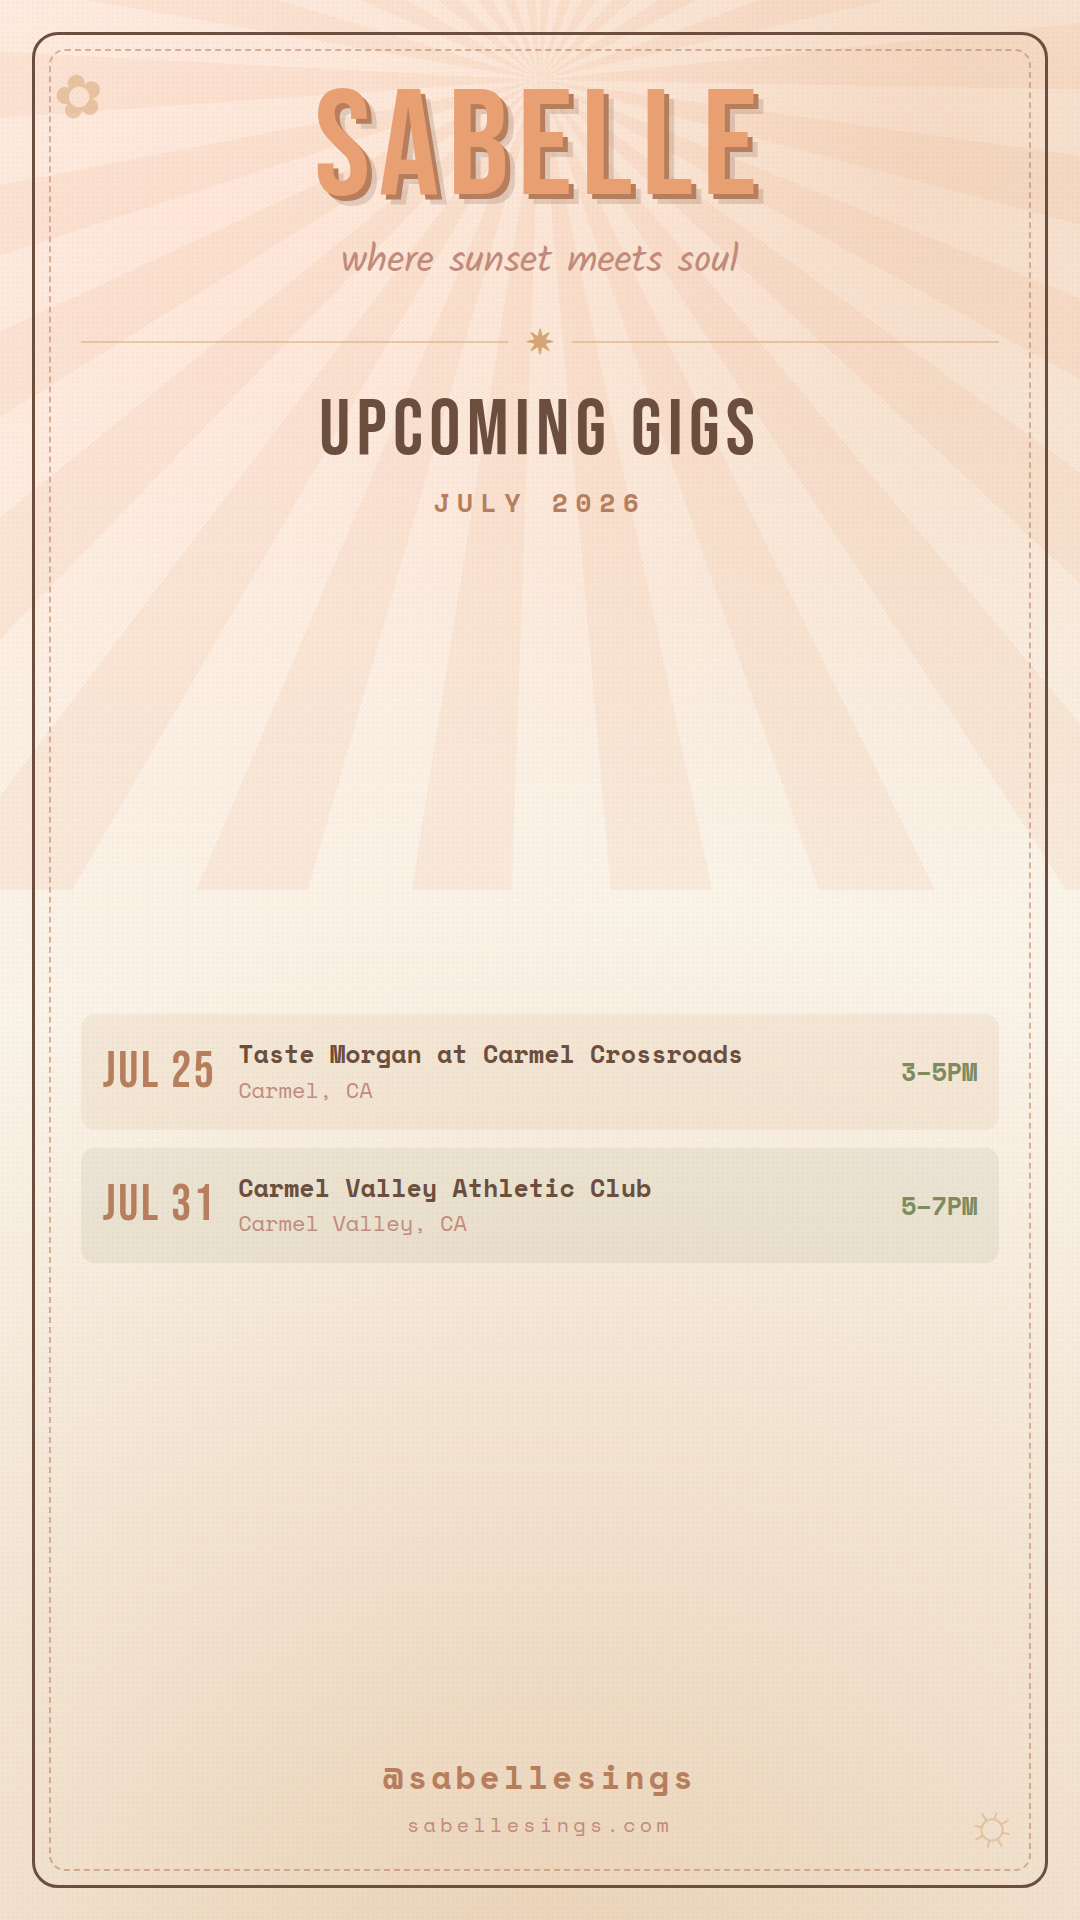
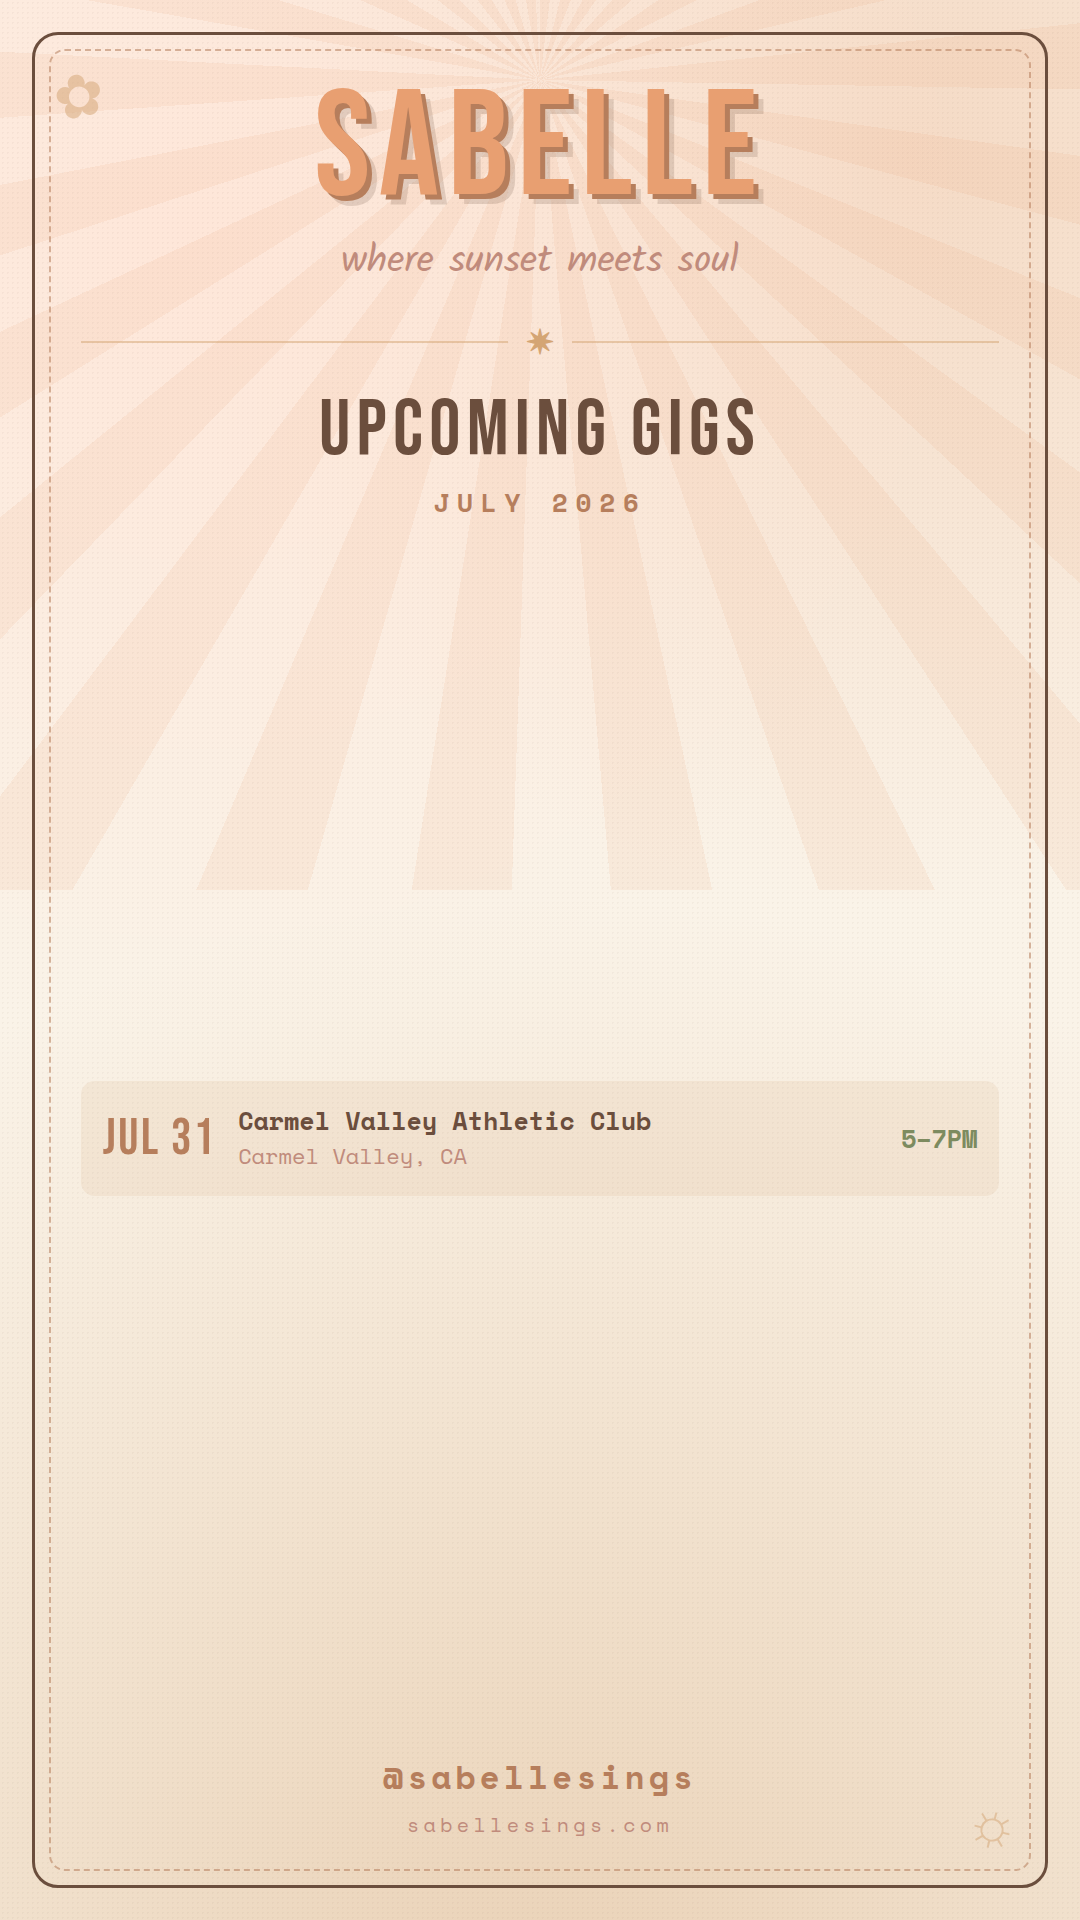
Update gig dates and graphics

diff --git a/gigs/index.html b/gigs/index.html
@@ -30,7 +30,7 @@
 </style></head>
 <body><div class="wrap">
   <h1>GIG GRAPHICS</h1>
-  <div class="sub">Auto-updated whenever the schedule changes · last built 2026-07-25</div>
+  <div class="sub">Auto-updated whenever the schedule changes · last built 2026-07-26</div>
 
   <div class="cards">
     <div class="col">
@@ -47,14 +47,12 @@
 
   <h2 style="font-family:'Bebas Neue',sans-serif;font-size:30px;letter-spacing:.06em">The dates</h2>
   <ul>
-      <li><b>JUL 25</b> — Taste Morgan at Carmel Crossroads, Carmel, CA · 3–5PM</li>
       <li><b>JUL 31</b> — Carmel Valley Athletic Club, Carmel Valley, CA · 5–7PM</li>
   </ul>
 
   <div class="box">
     <b>Caption — tap and copy</b>
-    <textarea readonly>JUL 25 — Taste Morgan at Carmel Crossroads, Carmel, CA · 3–5PM
-JUL 31 — Carmel Valley Athletic Club, Carmel Valley, CA · 5–7PM
+    <textarea readonly>JUL 31 — Carmel Valley Athletic Club, Carmel Valley, CA · 5–7PM
 
 @sabellesings · sabellesings.com</textarea>
   </div>

diff --git a/index.html b/index.html
@@ -309,12 +309,6 @@
             <!-- GIGS:START -->
             <div class="tour-dates" id="upcoming-gigs">
                 <div class="tour-date">
-                    <span class="date-day">JULY 25</span>
-                    <span class="date-venue">Taste Morgan at Carmel Crossroads</span>
-                    <span class="date-city">Carmel, CA</span>
-                    <span class="date-time">3–5PM</span>
-                </div>
-                <div class="tour-date">
                     <span class="date-day">JULY 31</span>
                     <span class="date-venue">Carmel Valley Athletic Club</span>
                     <span class="date-city">Carmel Valley, CA</span>

diff --git a/gigs/card-post.html b/gigs/card-post.html
@@ -140,7 +140,6 @@ body{ display:flex; align-items:center; justify-content:center; }
       <div class="title">UPCOMING GIGS</div>
       <div class="month">JULY 2026</div>
       <ul class="gigs">
-        <li class="gig"><span class="g-date">JUL 25</span><span class="g-mid"><span class="g-venue">Taste Morgan at Carmel Crossroads</span><span class="g-city">Carmel, CA</span></span><span class="g-time">3–5PM</span></li>
         <li class="gig"><span class="g-date">JUL 31</span><span class="g-mid"><span class="g-venue">Carmel Valley Athletic Club</span><span class="g-city">Carmel Valley, CA</span></span><span class="g-time">5–7PM</span></li>
       </ul>
       <div class="foot">

diff --git a/gigs/card-story.html b/gigs/card-story.html
@@ -140,7 +140,6 @@ body{ display:flex; align-items:center; justify-content:center; }
       <div class="title">UPCOMING GIGS</div>
       <div class="month">JULY 2026</div>
       <ul class="gigs">
-        <li class="gig"><span class="g-date">JUL 25</span><span class="g-mid"><span class="g-venue">Taste Morgan at Carmel Crossroads</span><span class="g-city">Carmel, CA</span></span><span class="g-time">3–5PM</span></li>
         <li class="gig"><span class="g-date">JUL 31</span><span class="g-mid"><span class="g-venue">Carmel Valley Athletic Club</span><span class="g-city">Carmel Valley, CA</span></span><span class="g-time">5–7PM</span></li>
       </ul>
       <div class="foot">
